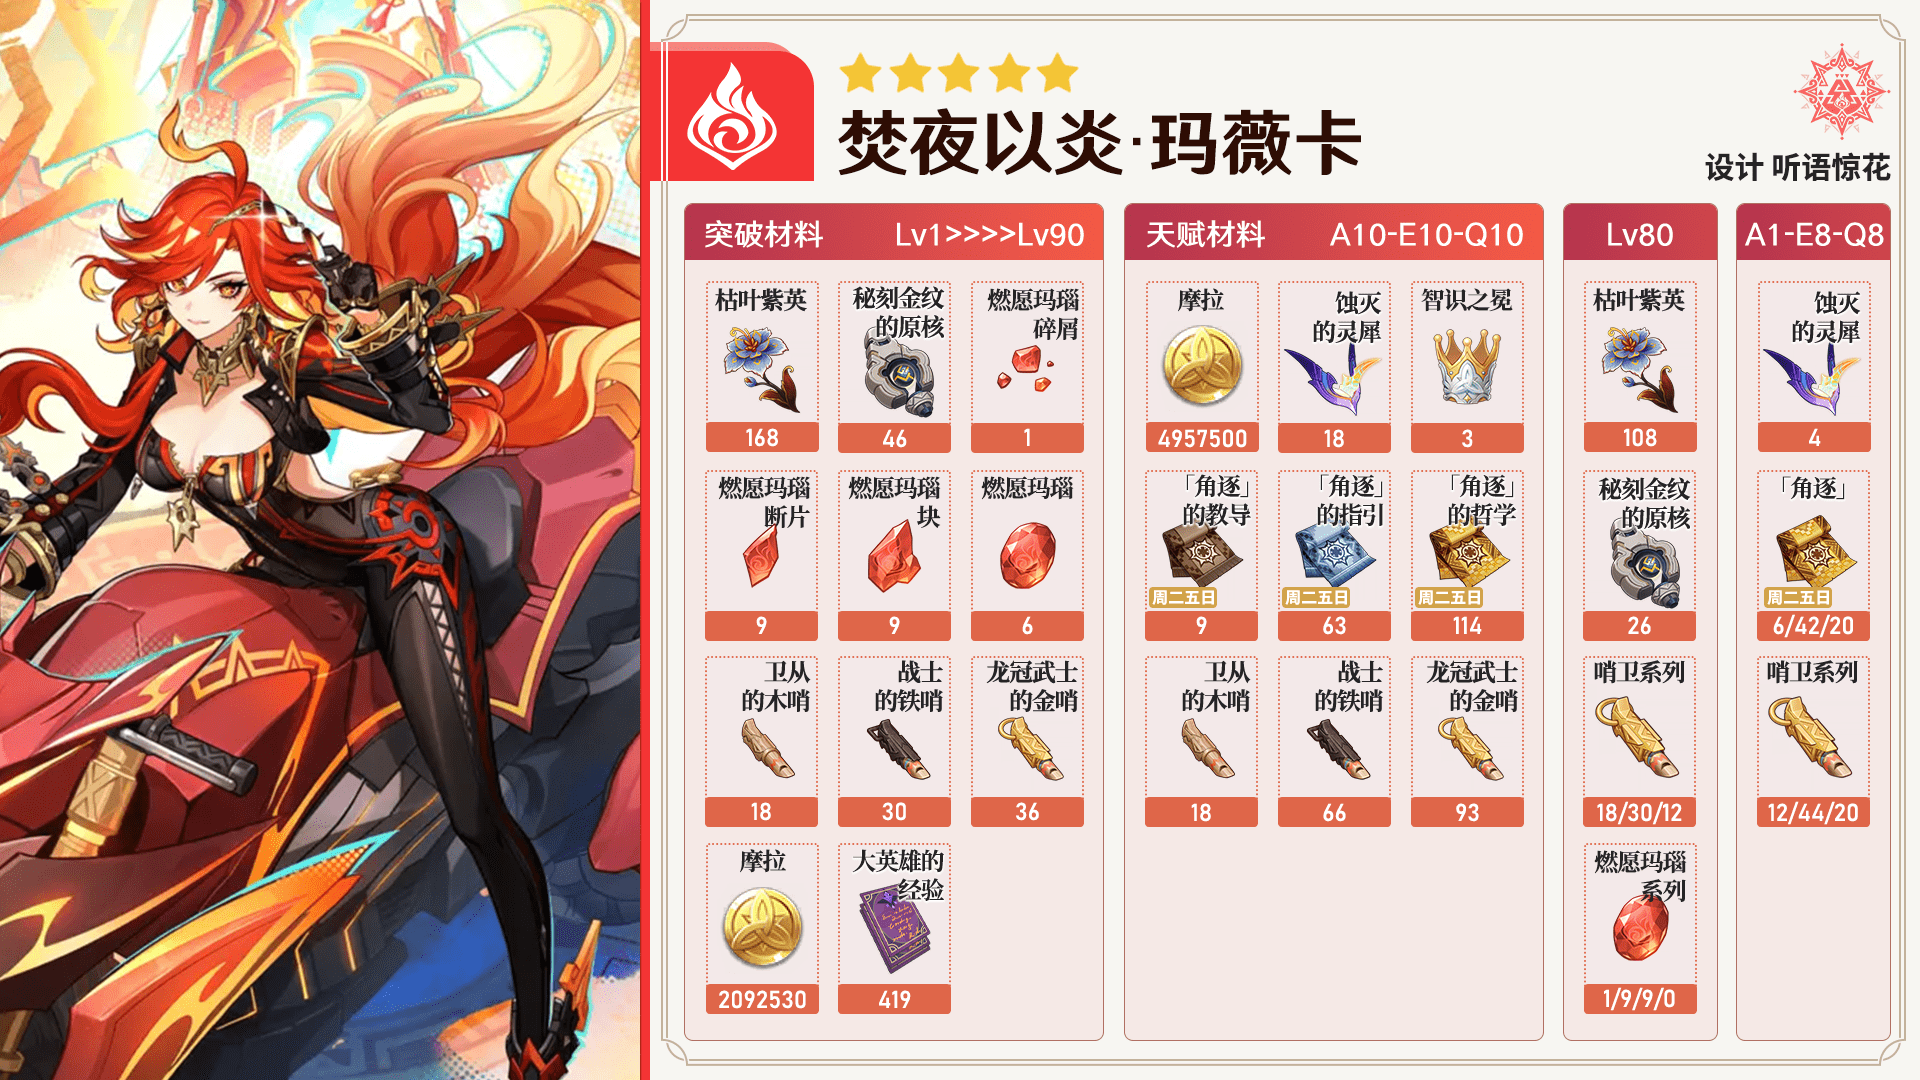
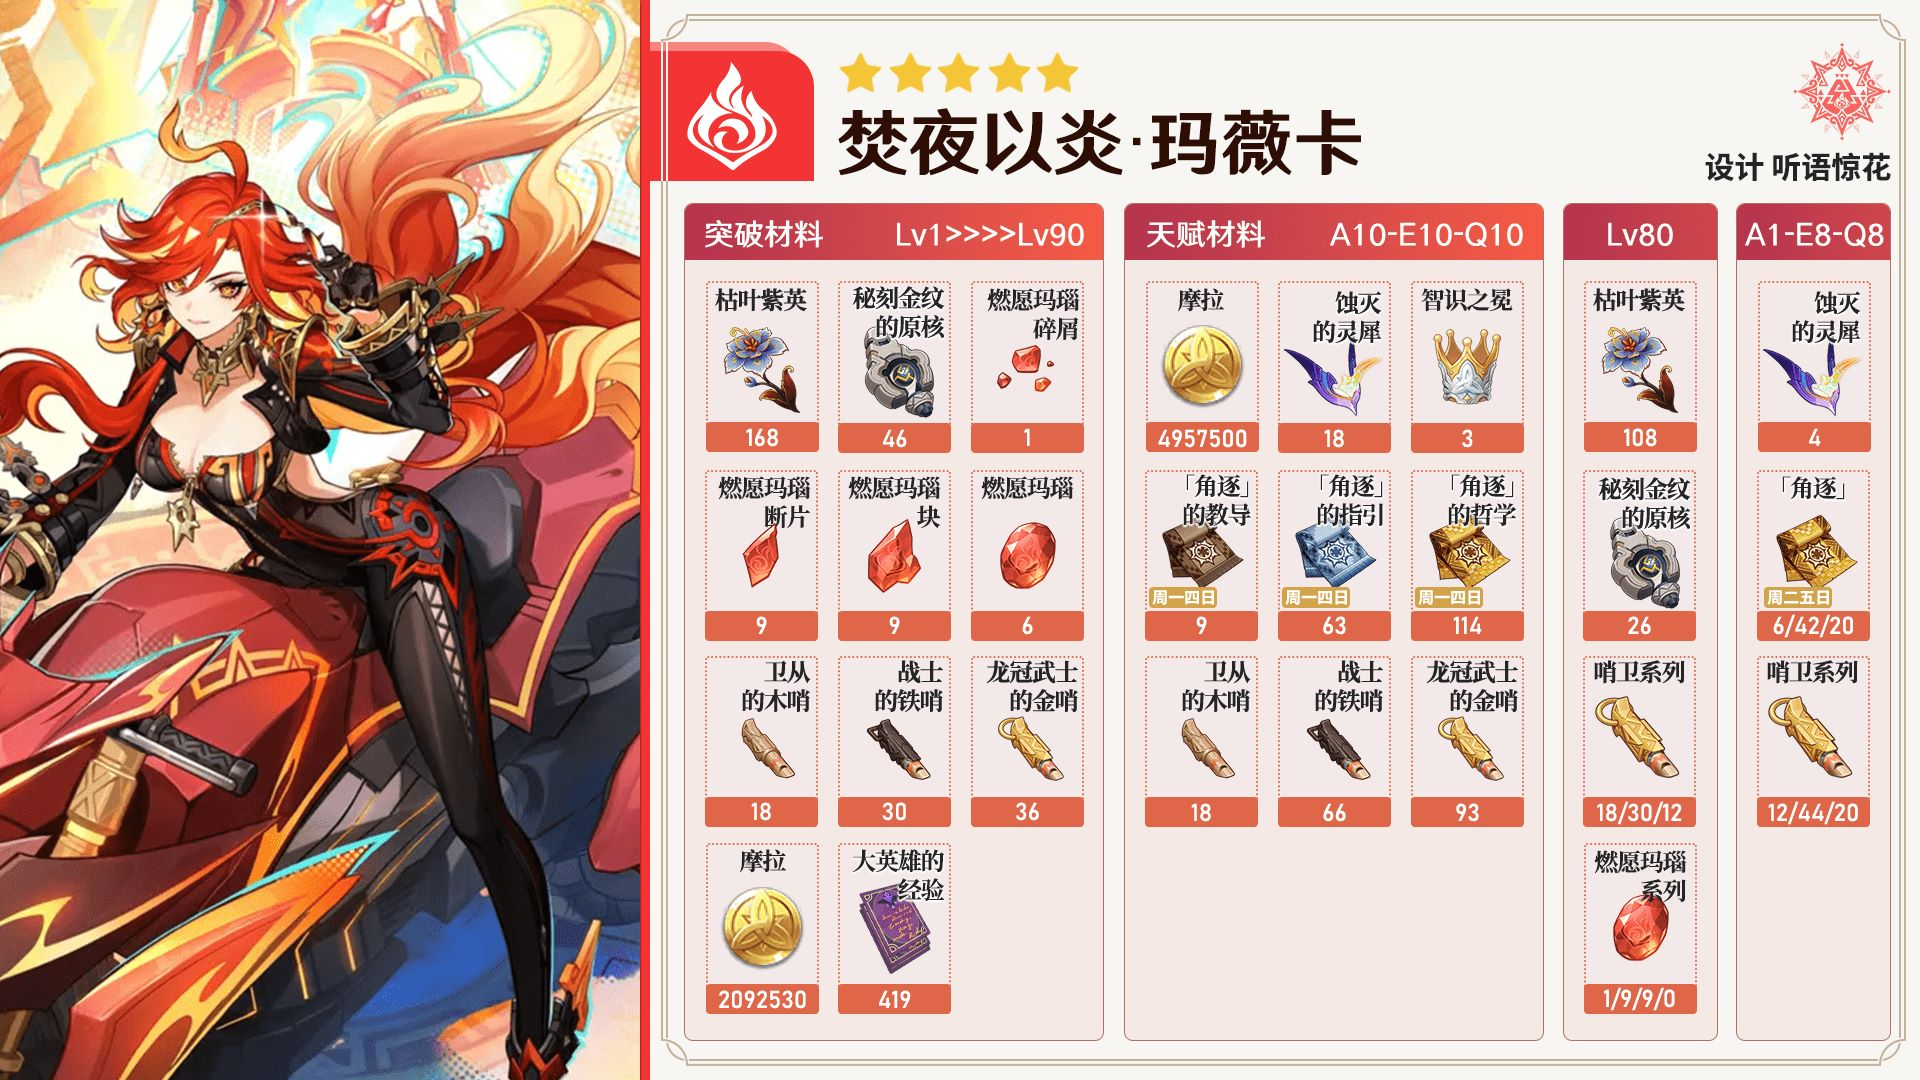
更新5.8角色材料和武器

diff --git a/README.md b/README.md
@@ -4,8 +4,8 @@ Genshin-Atlas是一个主要由[`米游社@听语惊花`](https://bbs.mihoyo.com
 目前部分图片由@玖喵（QQ：2014340648）在维护，感谢各位共创者的大力支持。
 
 ## 目录结构
-- [x] 武器图鉴（更新至5.7）
-- [x] 角色材料（更新至5.7）
+- [x] 武器图鉴（更新至5.8）
+- [x] 角色材料（更新至5.8）
 - [x] 圣遗物图鉴（更新至5.5）
 - [x] 原魔图鉴（更新至5.6）
 - [x] 区域特产（更新至4.0）
